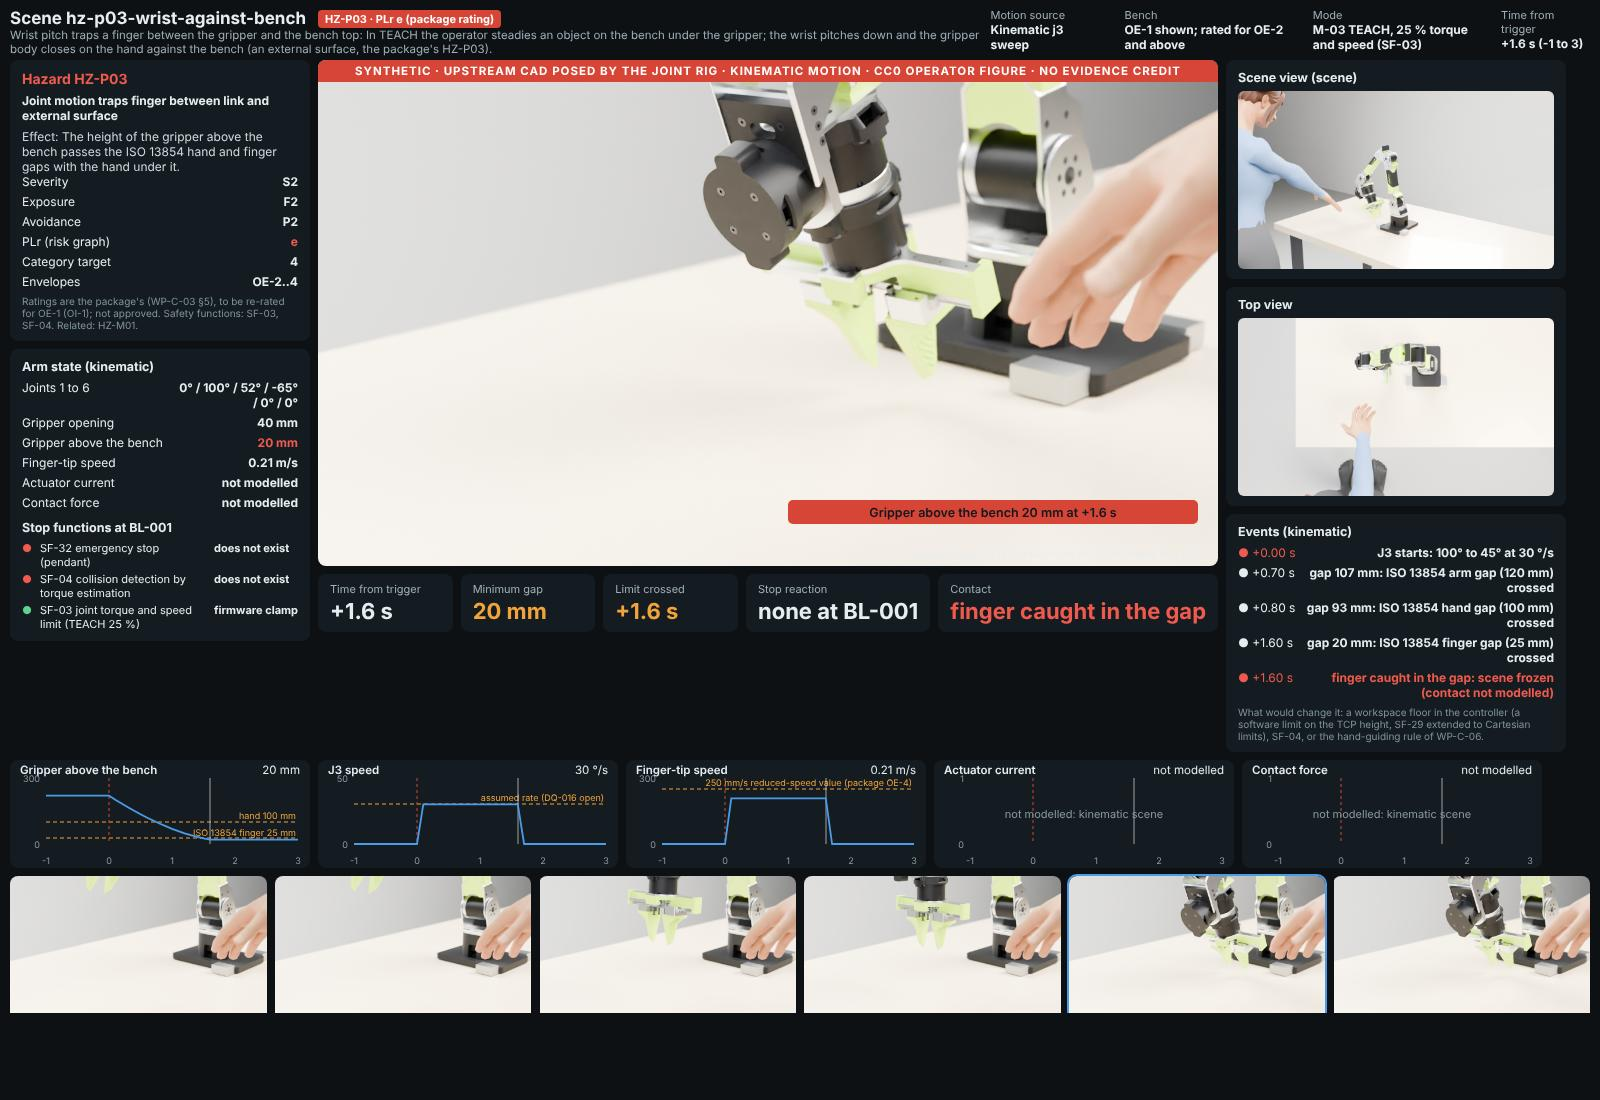
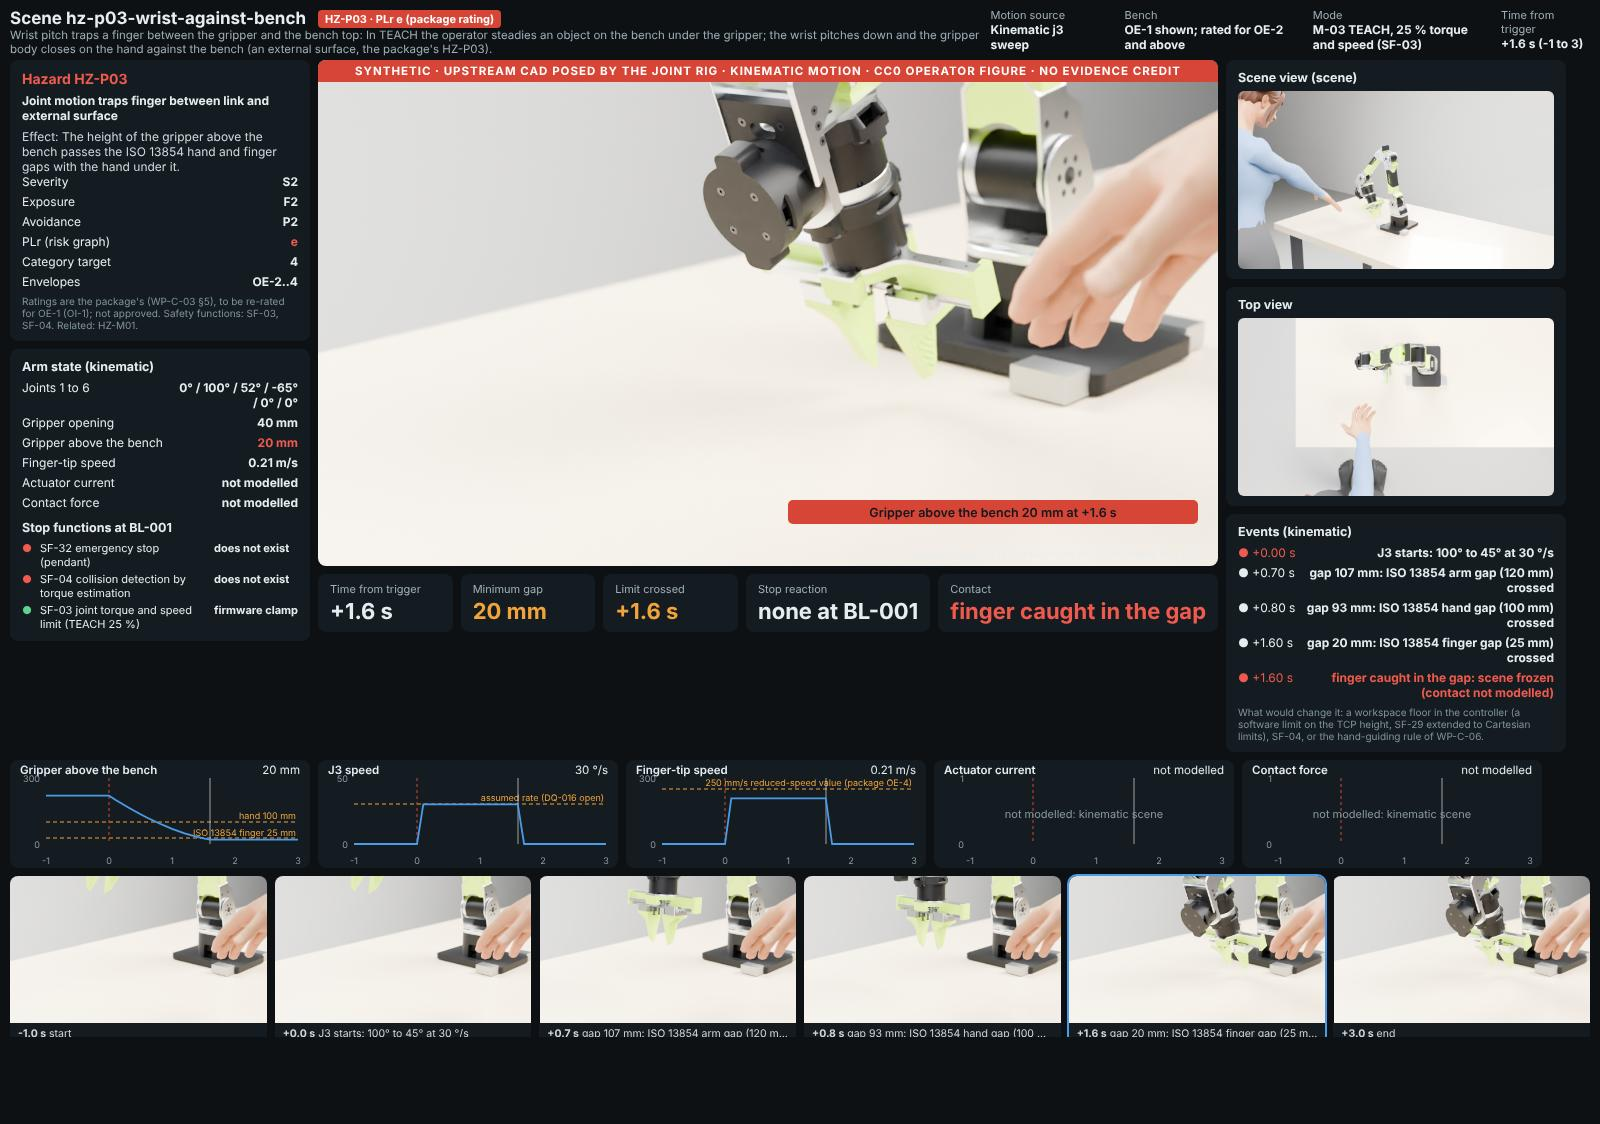
Scene dashboards: room for the two-line footer
Claude-Session: https://claude.ai/code/session_016qAzZSZi9WSXNxWmpz3UVG

Changed region(s): [[0.0, 0.0, 0.9688, 0.7418], [0.0, 0.68, 1.0, 0.9273], [0.9375, 0.0, 0.9688, 0.0618]]

diff --git a/assurance/sim/blender/compose.py b/assurance/sim/blender/compose.py
@@ -20,7 +20,7 @@ import sys
 from pathlib import Path
 
 HERE = Path(__file__).resolve().parent
-W, H = 1600, 1100
+W, H = 1600, 1124
 CHROME_CANDIDATES = ["/opt/pw-browsers/chromium-1194/chrome-linux/chrome", "chromium", "chromium-browser", "google-chrome", "chrome"]
 
 
